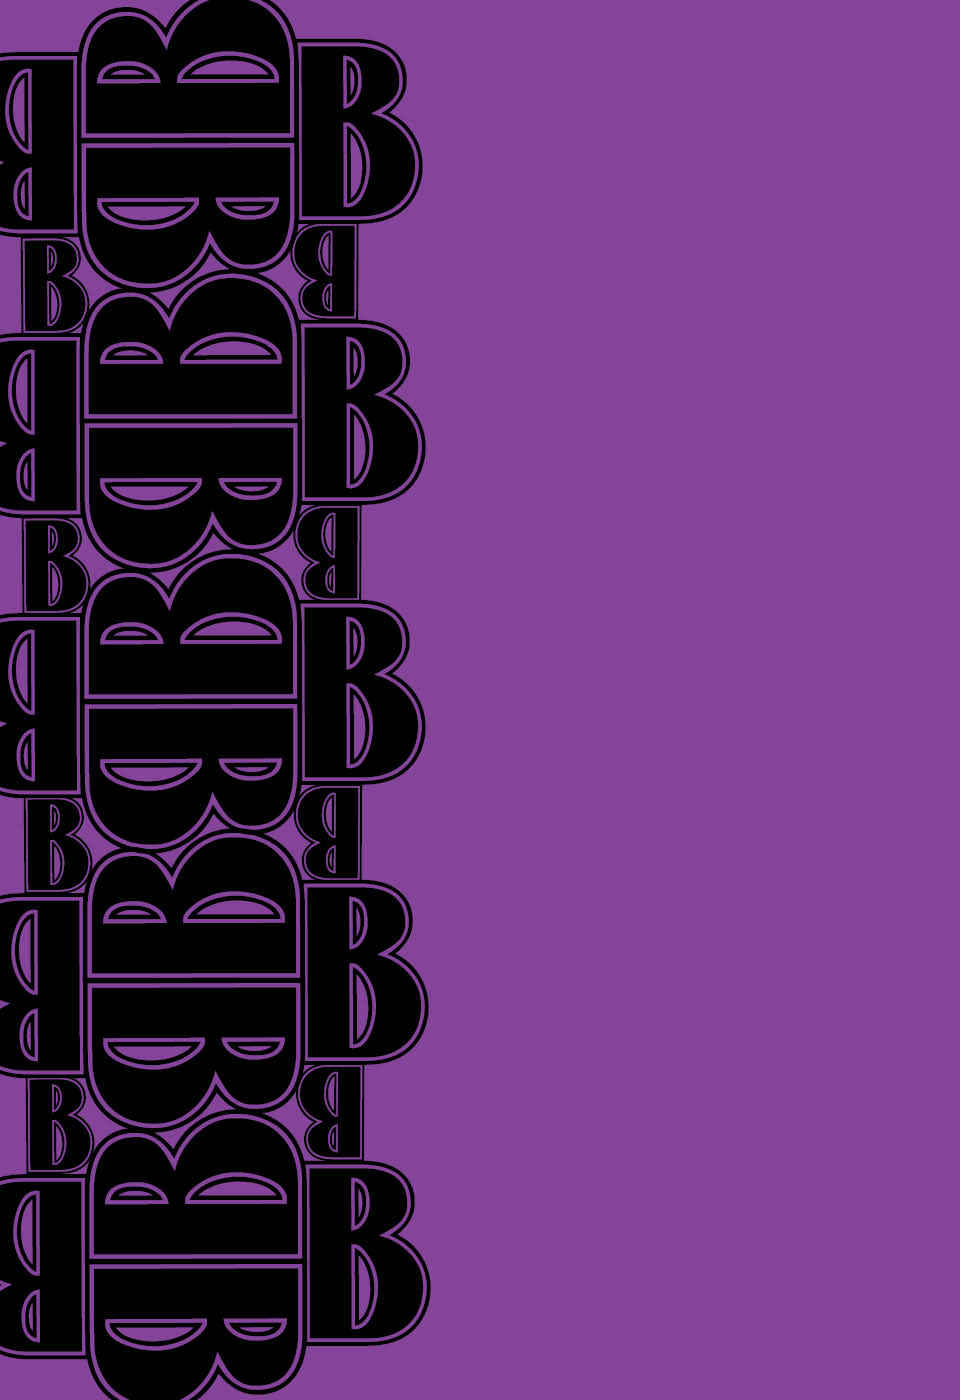
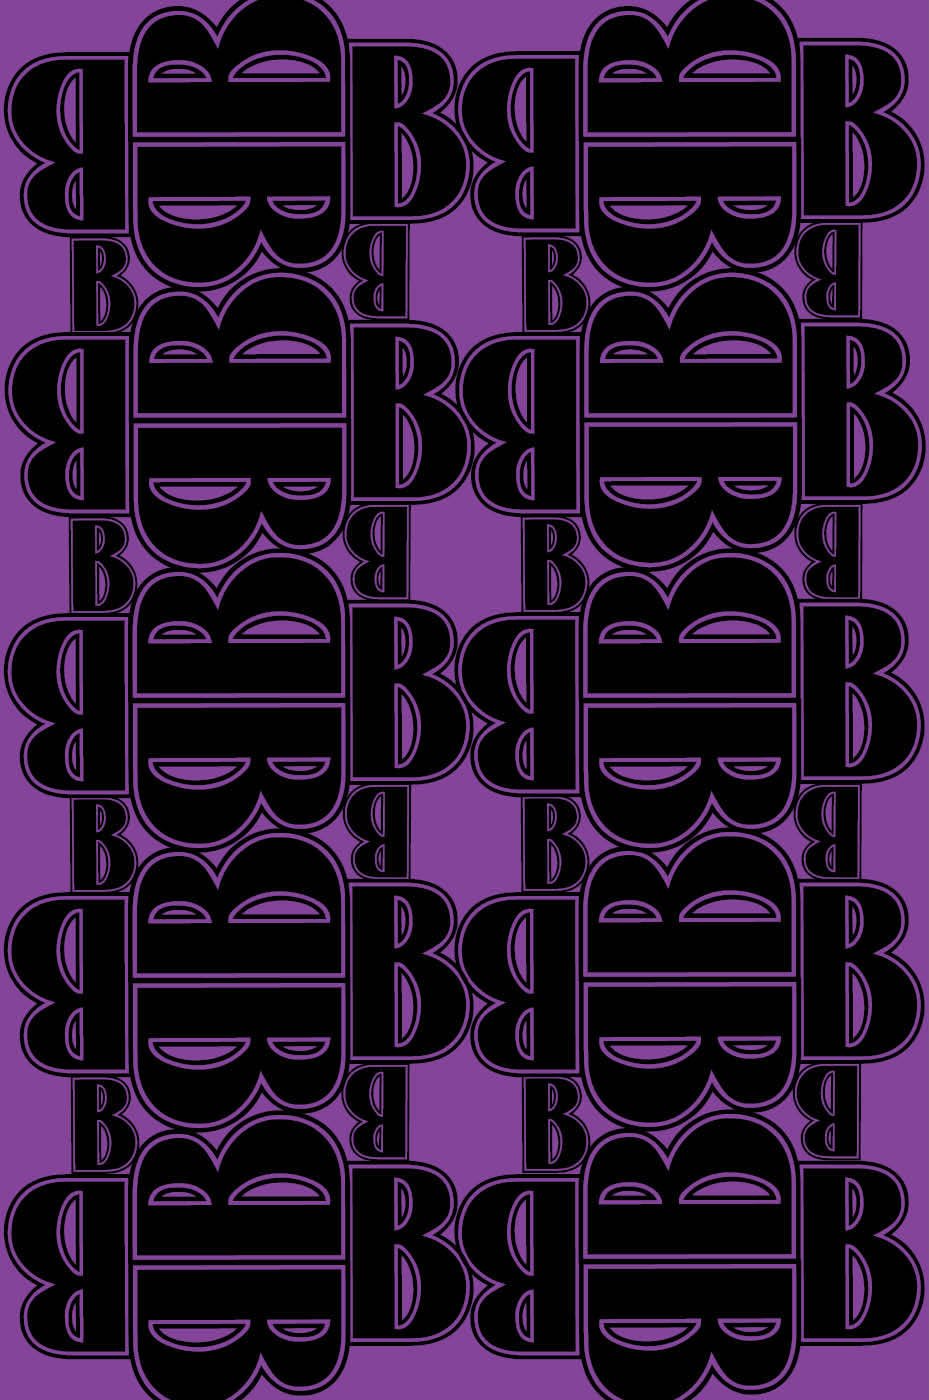
Modified and uploaded new background image - then removed image for further development. Added new filepath for trifold brochure in samples.html. Also moved navigation to original position.

diff --git a/samples.html b/samples.html
@@ -54,7 +54,7 @@
 		
 						<li>As part of a document design course, I created this full-color trifold brochure. The client was a fictional horse rehabilitation and retirement farm in Minnesota. Photos and content were provided by the instructor; design decisions were entirely up to the students.</li>
 		
-						<li><a href="trifold_brochure.pdf" >View Full Version (PDF)</a></li>
+						<li><a href="files/trifold_brochure.pdf" target="_blank">View Full Version (PDF)</a></li>
 
 				</ol>
 

diff --git a/css/screen.css b/css/screen.css
@@ -46,7 +46,6 @@ q:before,q:after{content:'';}abbr,acronym{border:0;font-variant:normal;}sup{vert
 html
 {
 background-color: #9900CC;
-background-image:url('../images/background.jpg');
 }
 
 body
@@ -72,7 +71,6 @@ color:black;
 list-style-type: none;
 position: relative;
 top: 0px;
-left: 550px;
 }
 
 #navigation a
